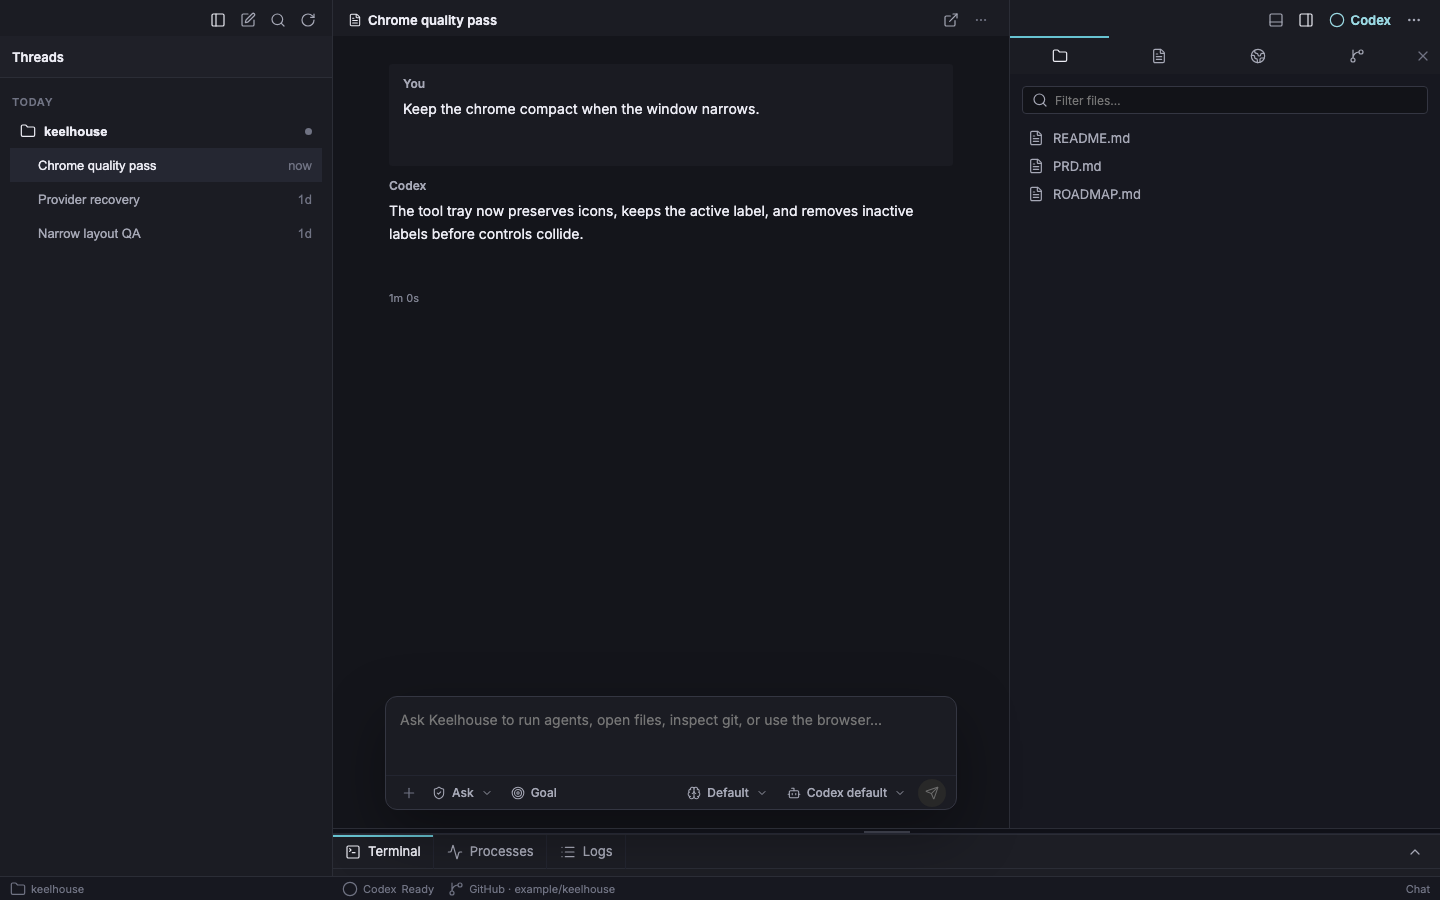
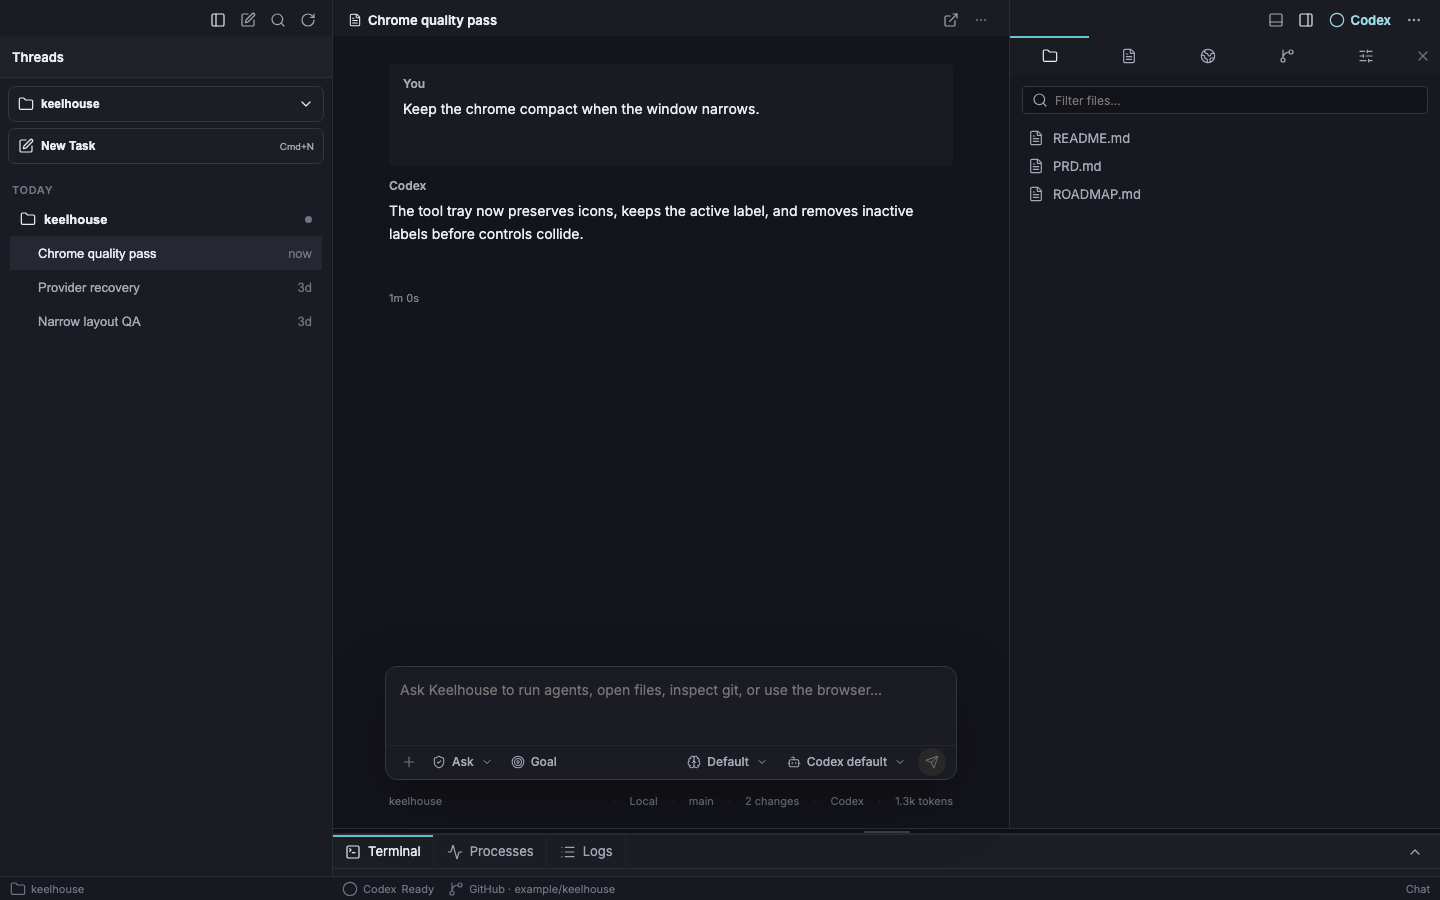
fix: preserve chat at narrow widths

diff --git a/app/src/responsive-shell.css b/app/src/responsive-shell.css
@@ -3,9 +3,70 @@
   height: 24px;
 }
 
-@media (max-width: 1180px) and (min-width: 1121px) {
-  .workbench.workbench--drawer-right {
-    grid-template-columns: minmax(420px, 1fr) 6px 360px;
+/* Drawer + readable chat + the default dock need about 1360px. Below that,
+   side tools float over chat on demand instead of permanently squeezing it. */
+@media (max-width: 1360px) {
+  .workbench.workbench--drawer-right,
+  .workbench.workbench--drawer-left {
+    grid-template-columns: minmax(0, 1fr);
+    grid-template-rows: minmax(0, 1fr) 6px var(--utility-tray-height, 42px);
+    grid-template-areas:
+      "terminal"
+      "utilitysplit"
+      "utility";
+  }
+
+  .workbench--drawer-right .tool-tray-tabs,
+  .workbench--drawer-left .tool-tray-tabs {
+    position: absolute;
+    top: 0;
+    z-index: 21;
+    width: min(360px, 100%);
+    background: #171820;
+  }
+
+  .workbench--drawer-right .files-dock,
+  .workbench--drawer-right .editor-area,
+  .workbench--drawer-right .browser-preview,
+  .workbench--drawer-right .git-dock,
+  .workbench--drawer-right .workspace-context-dock,
+  .workbench--drawer-left .files-dock,
+  .workbench--drawer-left .editor-area,
+  .workbench--drawer-left .browser-preview,
+  .workbench--drawer-left .git-dock,
+  .workbench--drawer-left .workspace-context-dock {
+    position: absolute;
+    top: 38px;
+    bottom: calc(var(--utility-tray-height, 42px) + 6px);
+    z-index: 20;
+    width: min(360px, 100%);
+  }
+
+  .workbench--drawer-right .tool-tray-tabs,
+  .workbench--drawer-right .files-dock,
+  .workbench--drawer-right .editor-area,
+  .workbench--drawer-right .browser-preview,
+  .workbench--drawer-right .git-dock,
+  .workbench--drawer-right .workspace-context-dock {
+    right: 0;
+    border-left: 1px solid var(--color-border);
+    box-shadow: -18px 0 38px rgba(0, 0, 0, 0.28);
+  }
+
+  .workbench--drawer-left .tool-tray-tabs,
+  .workbench--drawer-left .files-dock,
+  .workbench--drawer-left .editor-area,
+  .workbench--drawer-left .browser-preview,
+  .workbench--drawer-left .git-dock,
+  .workbench--drawer-left .workspace-context-dock {
+    left: 0;
+    border-right: 1px solid var(--color-border);
+    box-shadow: 18px 0 38px rgba(0, 0, 0, 0.28);
+  }
+
+  .workbench--drawer-right .workbench-resizer--tray,
+  .workbench--drawer-left .workbench-resizer--tray {
+    display: none;
   }
 }
 

diff --git a/app/src/commandPalette.test.ts b/app/src/commandPalette.test.ts
@@ -19,6 +19,19 @@ describe("command palette filtering", () => {
     expect(filterCommandPaletteCommands(commands, "git source")[0]?.id).toBe("drawer.git");
   });
 
+  it("ranks an exact label match ahead of incidental detail matches", () => {
+    const projectCommands: CommandPaletteCommand[] = [
+      { id: "task.new", label: "New Task", detail: "Create a task in the active project" },
+      { id: "workspace.new-project", label: "New Project…", detail: "Create and open a local project" },
+      { id: "workspace.open", label: "Open Project…", detail: "Choose a project folder" },
+    ];
+
+    expect(filterCommandPaletteCommands(projectCommands, "New Project").map((command) => command.id)).toEqual([
+      "workspace.new-project",
+      "task.new",
+    ]);
+  });
+
   it("excludes disabled sources before text filtering", () => {
     const mixed: CommandPaletteCommand[] = [
       ...commands,

diff --git a/app/src/commandPalette.ts b/app/src/commandPalette.ts
@@ -15,6 +15,7 @@ export type CommandPaletteCommand = {
 };
 
 const normalize = (value: string) => value.trim().toLowerCase();
+const normalizeLabel = (value: string) => normalize(value).replace(/(?:…|\.\.\.)$/, "");
 
 export const commandPaletteSearchText = (command: CommandPaletteCommand) =>
   normalize([
@@ -31,11 +32,15 @@ export const filterCommandPaletteCommands = <T extends CommandPaletteCommand>(
   query: string,
   sources: CommandPaletteSourceSettings = DEFAULT_COMMAND_PALETTE_SOURCES,
 ): T[] => {
-  const terms = normalize(query).split(/\s+/).filter(Boolean);
+  const normalizedQuery = normalize(query);
+  const terms = normalizedQuery.split(/\s+/).filter(Boolean);
   return commands.filter((command) => {
     if (!sources[command.source ?? "commands"]) return false;
     if (terms.length === 0) return true;
     const haystack = commandPaletteSearchText(command);
     return terms.every((term) => haystack.includes(term));
-  });
+  }).sort((left, right) => (
+    Number(normalizeLabel(right.label) === normalizedQuery)
+    - Number(normalizeLabel(left.label) === normalizedQuery)
+  ));
 };

diff --git a/app/src/shellCssContract.test.ts b/app/src/shellCssContract.test.ts
@@ -3,6 +3,7 @@ import { describe, expect, it } from "vitest";
 import { readCssSource } from "./readCssSource";
 
 const css = readCssSource(new URL("./App.css", import.meta.url));
+const responsive = readFileSync(new URL("./responsive-shell.css", import.meta.url), "utf8");
 const transitions = readFileSync(new URL("./workbenchTransitions.css", import.meta.url), "utf8");
 
 describe("responsive shell CSS contract", () => {
@@ -50,6 +51,13 @@ describe("responsive shell CSS contract", () => {
     expect(contextCss).toMatch(/@media \(max-width:\s*1120px\)[^{]*\{[\s\S]*\.workbench\.workbench--tools-context\.workbench--drawer-right[\s\S]*grid-template-areas:[^}]*"terminal"[^}]*"utility";/s);
     expect(contextCss).toMatch(/@media \(max-width:\s*1120px\)[\s\S]*\.workbench--tools-context \.workspace-context-dock\s*\{[^}]*position:\s*absolute;[^}]*right:\s*0;[^}]*width:\s*min\(360px,\s*100%\);/s);
     expect(contextCss).toMatch(/\.workbench--tools-context\.workbench--drawer-right \.terminal-panel[^}]*display:\s*flex;/s);
+  });
+
+  it("overlays every side-docked tool before it can squeeze chat", () => {
+    expect(responsive).toMatch(/@media \(max-width:\s*1360px\)[\s\S]*\.workbench\.workbench--drawer-right,[\s\S]*\.workbench\.workbench--drawer-left\s*\{[^}]*grid-template-columns:\s*minmax\(0,\s*1fr\);[^}]*grid-template-areas:[^}]*"terminal"[^}]*"utility";/s);
+    expect(responsive).toMatch(/@media \(max-width:\s*1360px\)[\s\S]*\.workbench--drawer-right \.tool-tray-tabs,[\s\S]*\.workbench--drawer-left \.tool-tray-tabs\s*\{[^}]*position:\s*absolute;[^}]*width:\s*min\(360px,\s*100%\);/s);
+    expect(responsive).toMatch(/@media \(max-width:\s*1360px\)[\s\S]*\.workbench--drawer-right \.files-dock,[\s\S]*\.workbench--drawer-left \.workspace-context-dock\s*\{[^}]*position:\s*absolute;[^}]*bottom:\s*calc\(var\(--utility-tray-height,\s*42px\) \+ 6px\);/s);
+    expect(responsive).not.toMatch(/@media \(max-width:\s*1180px\)[\s\S]*grid-template-columns:\s*minmax\(420px,\s*1fr\) 6px 360px;/s);
   });
 
   it("floats the open Threads drawer above the 900px conversation", () => {

diff --git a/app/src/workbenchLayout.test.ts b/app/src/workbenchLayout.test.ts
@@ -22,14 +22,16 @@ describe("workbench layout contract", () => {
     expect(effectiveWorkbenchLayout("right", 1024)).toBe("hidden");
     expect(effectiveWorkbenchLayout("left", 1024)).toBe("hidden");
     expect(effectiveWorkbenchLayout("right", 1120)).toBe("hidden");
-    expect(effectiveWorkbenchLayout("right", 1180)).toBe("right");
+    expect(effectiveWorkbenchLayout("right", 1180)).toBe("hidden");
+    expect(effectiveWorkbenchLayout("right", 1360)).toBe("hidden");
+    expect(effectiveWorkbenchLayout("right", 1361)).toBe("right");
     expect(effectiveWorkbenchLayout("right", 1440)).toBe("right");
     expect(effectiveWorkbenchLayout("hidden", 800)).toBe("hidden");
   });
 
   it("allows an explicit icon click to reopen a panel at narrow widths", () => {
     expect(effectiveWorkbenchLayout("right", 1024, true)).toBe("right");
-    expect(effectiveWorkbenchLayout("left", 900, true)).toBe("left");
+    expect(effectiveWorkbenchLayout("left", 1232, true)).toBe("left");
   });
 
   it("keeps a readable agent surface at the supported minimum window width", () => {

diff --git a/roadmap.html b/roadmap.html
@@ -523,7 +523,7 @@ h2.s-later{color:#c084fc;border-left-color:#c084fc}
 <div class="card" data-track="workspace" data-id="PROJECT-ENTRY-CONTRACT" data-size="S" data-tier="rock" data-launch="v2">
 <div class="hd"><span class="sz">S</span><span class="ttl">PROJECT-ENTRY-CONTRACT &middot; Shared project entry actions</span><span class="lens l-workspace">Projects + sessions</span></div>
 <div class="badges"><span class="me ver">v2</span><span class="me lock">🔒</span></div><p class="sum">Create one typed owner for New Project, Open Project, Switch Project, and New Task so the Threads toolbar, empty state, composer, menu bar, command palette, and project switcher cannot drift. User-facing copy says Project consistently while existing workspace persistence remains internal.</p>
-<details><summary>Progress</summary><p class="progress">2026-07-17: shared typed actions and exact Project vocabulary now own the workspace context menu, command palette, native events, launch recovery, Threads/titlebar controls, File menu, switcher, and composer project control. Fresh signed-app QA executed the native File menu labels, searchable switcher, Open Project picker cancellation, project switching, Cmd+N, and persistent Threads New Task. The card stays open only for a final command-palette and project-less titlebar execution pass across every promised door.</p></details><details><summary>Done criteria</summary><p class="done">Focused tests first fail then prove every entry surface calls the same guarded actions; Open Project reuses the native picker and dirty-draft/project lifecycle; cancelled actions are no-ops; New Task routes project-less users to project entry; menu/palette/shortcut labels match. See docs/project-entry-and-composer-menu-plan-2026-07-17.md.</p></details></div>
+<details><summary>Progress</summary><p class="progress">2026-07-17: shared typed actions and exact Project vocabulary now own the workspace context menu, command palette, native events, launch recovery, Threads/titlebar controls, File menu, switcher, and composer project control. Fresh signed-app QA executed the native File menu labels, searchable switcher, Open Project picker cancellation, project switching, Cmd+N, and persistent Threads New Task. A native palette failure where New Project selected New Task was reproduced, fixed with exact-label relevance that ignores the action ellipsis, and executed through both New Project and Open Project in the final signed app. The card stays open only for the project-less titlebar execution pass.</p></details><details><summary>Done criteria</summary><p class="done">Focused tests first fail then prove every entry surface calls the same guarded actions; Open Project reuses the native picker and dirty-draft/project lifecycle; cancelled actions are no-ops; New Task routes project-less users to project entry; menu/palette/shortcut labels match. See docs/project-entry-and-composer-menu-plan-2026-07-17.md.</p></details></div>
 </div>
 <div class="col" data-status="next"><h2 class="s-next">Next</h2>
 <div class="card" data-track="quality" data-id="CHROME-EYEBALL-SIGNOFF" data-size="S" data-tier="sand" data-launch="v1">
@@ -537,7 +537,7 @@ h2.s-later{color:#c084fc;border-left-color:#c084fc}
 <div class="card" data-track="ui" data-id="COMPOSER-PLUS-MENU" data-size="M" data-tier="pebble" data-launch="v2">
 <div class="hd"><span class="sz">M</span><span class="ttl">COMPOSER-PLUS-MENU &middot; Composer plus action menu</span><span class="lens l-ui">Chrome + interaction</span></div>
 <div class="badges"><span class="me ver">v2</span></div><p class="sum">Replace the current four-row generic context menu with an accessible composer popover grouped around real Add, Task, and Connections actions: files/folders, current file, browser preview, goal, parallel chats, and provider/MCP settings. Unsupported Codex-only plugin/cloud rows stay absent rather than decorative.</p>
-<details><summary>Progress</summary><p class="progress">2026-07-17: RED/GREEN implementation replaces the generic menu with an accessible Add, Task, and Connections popover. Existing file/folder, current-file, browser-preview, goal, parallel-chat, and provider/MCP paths remain real owners; disabled reasons, viewport clamping, keyboard selection, Escape/outside close, focus return, and duplicate rejection are covered. Signed-app QA opened the complete grouped menu and executed Provider and MCP settings into Settings → Connections. The card stays open until every enabled row and responsive menu geometry are executed and captured.</p></details><details><summary>Done criteria</summary><p class="done">Behavior-first tests cover pointer/keyboard open, group order, action routing, disabled reasons, outside/Escape close, focus return, viewport collision handling, and no duplicate menus. Responsive visual proof matches the established Keelhouse overlay grammar, and every rendered row executes a real path in the signed app.</p></details></div>
+<details><summary>Progress</summary><p class="progress">2026-07-17: RED/GREEN implementation replaces the generic menu with an accessible Add, Task, and Connections popover. Existing file/folder, current-file, browser-preview, goal, parallel-chat, and provider/MCP paths remain real owners; disabled reasons, viewport clamping, keyboard selection, Escape/outside close, focus return, and duplicate rejection are covered. Signed-app QA opened the complete grouped menu, executed Provider and MCP settings into Settings → Connections, and executed Files and folders into the native picker with safe cancellation. The card stays open until the remaining enabled rows and responsive menu geometry are executed and captured.</p></details><details><summary>Done criteria</summary><p class="done">Behavior-first tests cover pointer/keyboard open, group order, action routing, disabled reasons, outside/Escape close, focus return, viewport collision handling, and no duplicate menus. Responsive visual proof matches the established Keelhouse overlay grammar, and every rendered row executes a real path in the signed app.</p></details></div>
 <div class="card" data-track="ui" data-id="PROJECT-FIRST-USE" data-size="S" data-tier="sand" data-launch="v2">
 <div class="hd"><span class="sz">S</span><span class="ttl">PROJECT-FIRST-USE &middot; Project entry empty states</span><span class="lens l-ui">Chrome + interaction</span></div>
 <div class="badges"><span class="me ver">v2</span></div><p class="sum">Replace the dead-end Threads message with intentional project entry. First use leads with Open Project and offers New Project; a cleared list stays neutral; loading and project-open failures are distinct. After a project opens, starter prompts remain scoped to that project and the persistent chrome stays available.</p>
@@ -545,7 +545,7 @@ h2.s-later{color:#c084fc;border-left-color:#c084fc}
 <div class="card" data-track="quality" data-id="PROJECT-ENTRY-NATIVE-QA" data-size="M" data-tier="rock" data-launch="v2">
 <div class="hd"><span class="sz">M</span><span class="ttl">PROJECT-ENTRY-NATIVE-QA &middot; Native project-entry coherence gate</span><span class="lens l-quality">Quality + shipping</span></div>
 <div class="badges"><span class="me ver">v2</span><span class="me lock">🔒</span></div><p class="sum">Prove the entire project/task entry contract through every promised door before calling it discoverable: Threads, empty state, project switcher, composer context, composer plus menu, command palette, macOS File menu, and shortcuts. Lock consistent labels, shared routing, responsive containment, focus behavior, persistence, and error recovery.</p>
-<details><summary>Progress</summary><p class="progress">2026-07-17: native execution now proves real New Project + Git + first task + relaunch persistence, Open Project cancellation, cross-project switching, two independent New Tasks, plus-menu routing to Connections, composer Project/Local/worktree/Branch menus, real branch creation, dirty-tree refusal, and real worktree creation. A native-only window.prompt no-op was found and fixed with an awaited in-app dialog; a 1024 metadata-overlap failure was found and fixed with composer container queries. Evidence is in docs/qa/project-entry/. Full gate is green at 867 frontend and 107 Rust tests. Remaining gate: execute every plus/palette/menu door, failure/retry in the signed app, capture 900, and obtain 1440 through a larger display or truthful production browser harness; the current display max is 1234 logical pixels.</p></details><details><summary>Done criteria</summary><p class="done">The production build, empty module-size baseline, chrome contract, full frontend/Rust suites, diff check, accessibility integration checks, and 1440/1024/900 visual captures pass. A freshly built signed app executes New Project, Open Project, Switch Project, New Task, plus-menu actions, local/worktree/branch menus, cancel, failure recovery, relaunch persistence, and real cwd/branch checks. No sub-claim is accepted from a build-only proxy.</p></details></div>
+<details><summary>Progress</summary><p class="progress">2026-07-17: native execution now proves real New Project + Git + first task + relaunch persistence, Open Project cancellation, cross-project switching, two independent New Tasks, plus-menu routing to Connections, composer Project/Local/worktree/Branch menus, real branch creation, dirty-tree refusal, and real worktree creation. Native failures found and fixed include the window.prompt worktree no-op, 1024 metadata overlap, command-palette misranking, and side docks squeezing the composer at narrow widths. Side tools now auto-hide or overlay below the content-derived 1360px breakpoint while chat and the bottom tray remain stable. Evidence includes final signed-app narrow captures plus production 1440/1180/1024/900 renders in docs/qa/. Full gate is green at 870 frontend and 107 Rust tests. Remaining gate: execute the remaining plus/menu rows, project-less titlebar, failure/retry, and signed switcher search selection.</p></details><details><summary>Done criteria</summary><p class="done">The production build, empty module-size baseline, chrome contract, full frontend/Rust suites, diff check, accessibility integration checks, and 1440/1024/900 visual captures pass. A freshly built signed app executes New Project, Open Project, Switch Project, New Task, plus-menu actions, local/worktree/branch menus, cancel, failure recovery, relaunch persistence, and real cwd/branch checks. No sub-claim is accepted from a build-only proxy.</p></details></div>
 <div class="card" data-track="quality" data-id="CHROME-CONTRACT-V2" data-size="S" data-tier="sand" data-launch="v1">
 <div class="hd"><span class="sz">S</span><span class="ttl">CHROME-CONTRACT-V2 &middot; Chrome contract gate v2</span><span class="lens l-quality">Quality + shipping</span></div>
 <div class="badges"><span class="me ver">v1</span></div><p class="sum">Extend scripts/check-chrome-contract.mjs so boxed-button drift cannot recur silently: forbid the boxed control background on toolbar/composer/editor/browser button classes, require the text-action grammar classes, assert composer card values, run-surface centered column, sidebar section-label treatment, and tray tab-strip actives, and require docs/qa/chrome-delta side-by-side artifacts (demo reference captures plus matching app captures at 1440/1024/900). Blind-audit 2026-07-11 additions: refresh the stale pre-convergence editor-QA fixture to current chrome; titlebar crumb overflow rules (project truncates before branch, branch ellipsis over ~30 chars, detached HEAD shows short SHA); overlay side-by-side captures for context menu and palette; assert the shipped font-stack decision from CHROME-FONT-LOCK. Executes after CHROME-EYEBALL-SIGNOFF so the gate locks a human-approved state.</p>

diff --git a/app/src/workbenchLayout.ts b/app/src/workbenchLayout.ts
@@ -23,7 +23,7 @@ export const effectiveWorkbenchLayout = (
   narrowPanelOpen = false,
 ) => {
   if (layout === "left" || layout === "right") {
-    return viewportWidth <= 1120 && !narrowPanelOpen ? "hidden" : layout;
+    return viewportWidth <= 1360 && !narrowPanelOpen ? "hidden" : layout;
   }
   return layout;
 };